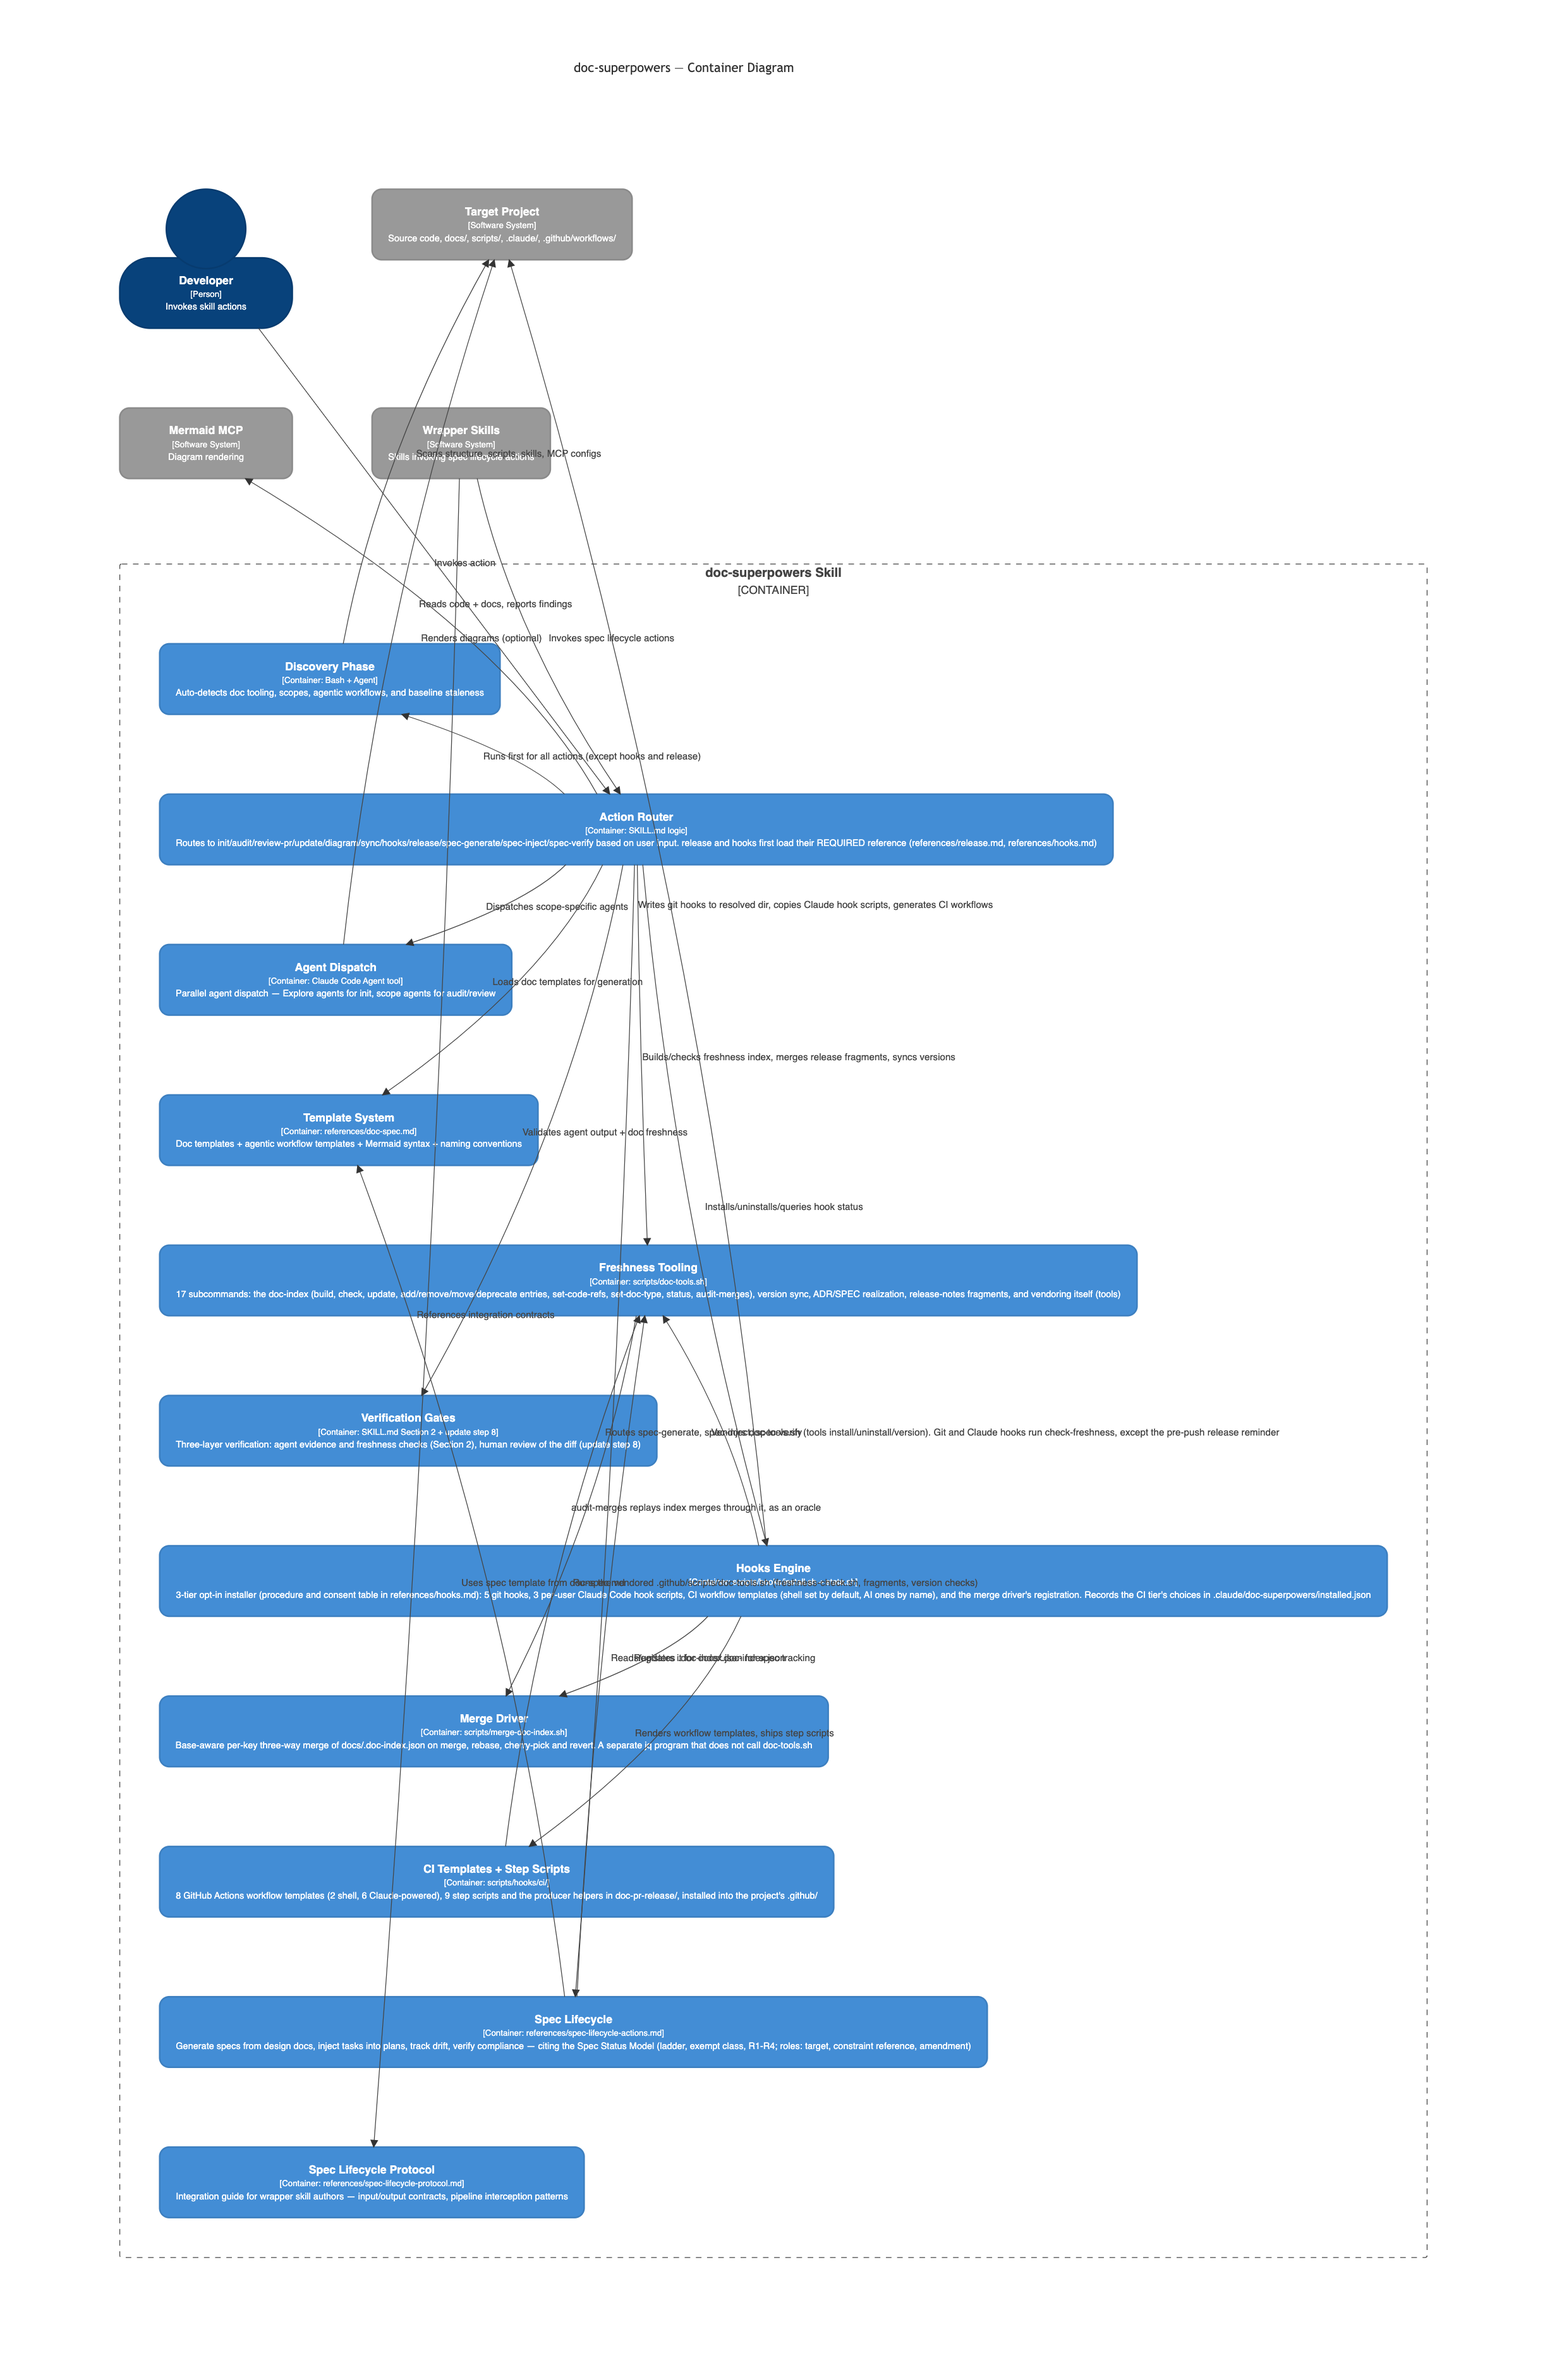
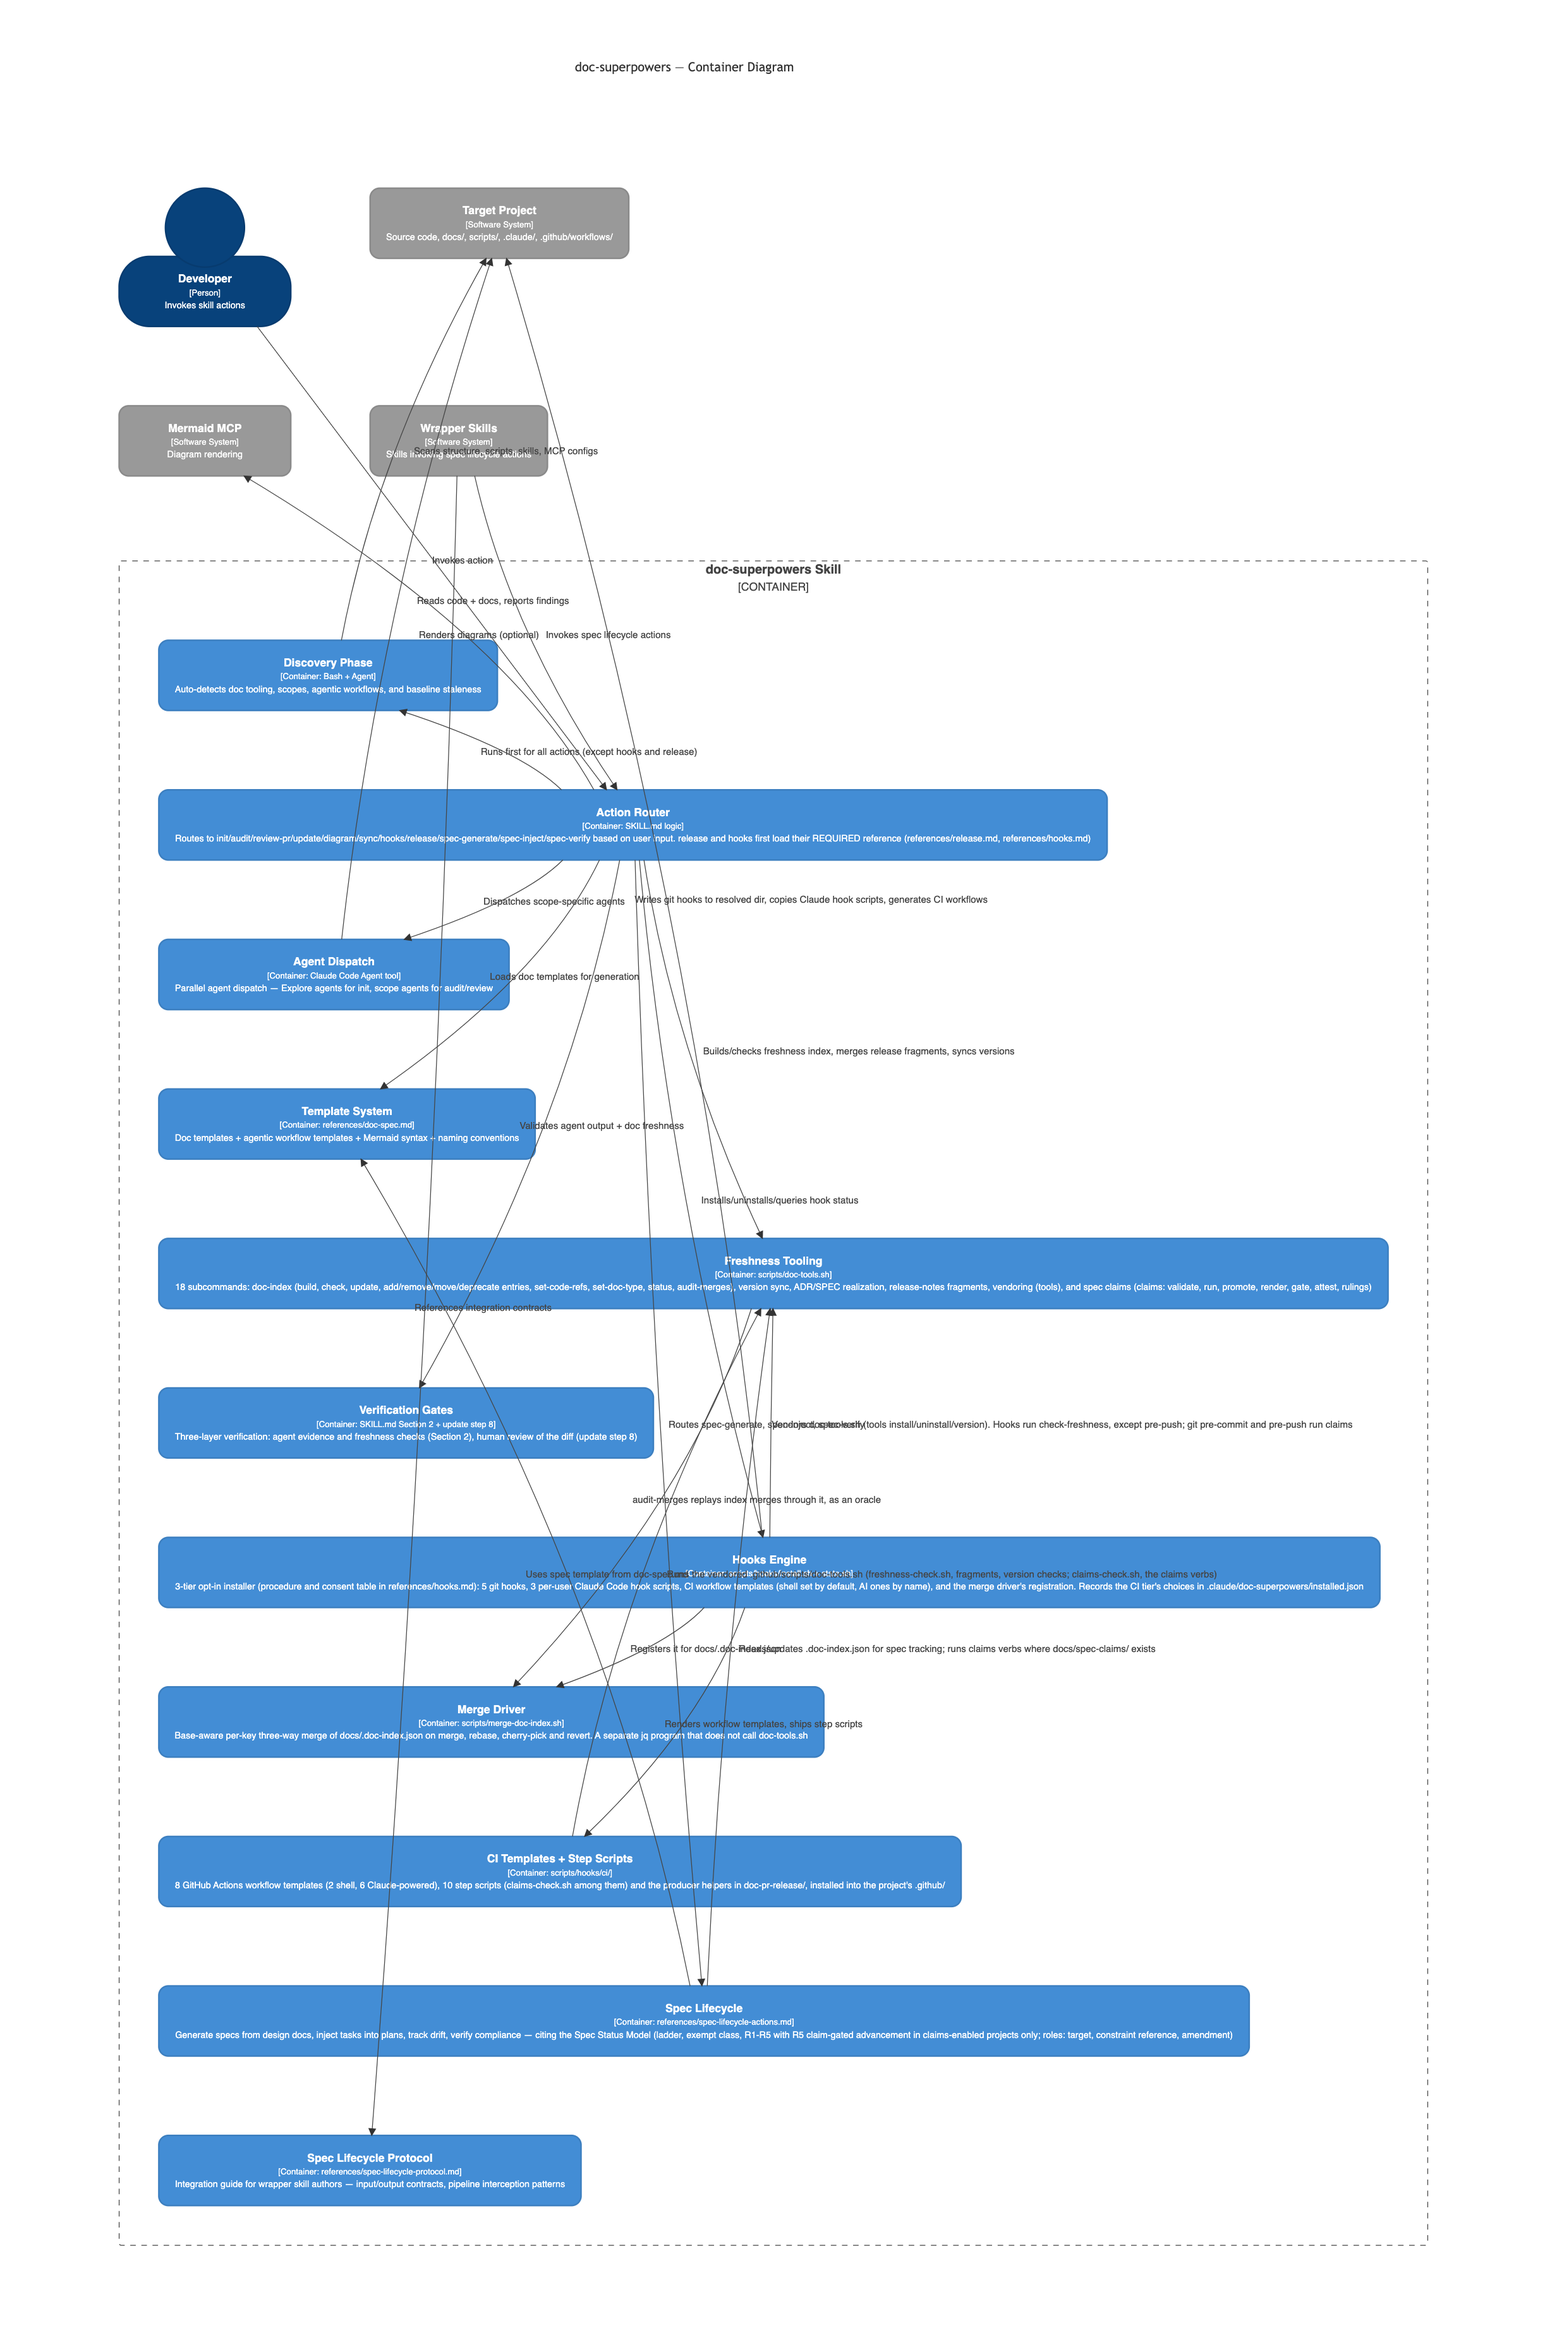
docs(architecture): re-render the C4 container diagram for 3.2.0
The container diagram's Mermaid source now matches the code: Freshness
Tooling is 18 subcommands and names the claims verb group; CI Templates
ships 10 step scripts (claims-check.sh among them); the Spec Status Model
cites R1-R5 (R5 claim-gated advancement, claims-enabled projects only);
the hooks relation says the git pre-commit and pre-push hooks also run
claims; the CI and spec lifecycle relations to doc-tools.sh name the
claims verbs.

Re-rendered c4-container.png with mmdc 11.6.0 and headless system Chrome
(c4.wrap: false, width 1248, scale 2), the settings v3.1.0 recorded. The
new labels were kept short enough that none crosses the Skill boundary
and the diagram keeps its scale (2464x3704, was 2464x3724). The edge
labels overlap each other as they did in the previous render.
c4-context.png is unchanged: its source has not changed since its last
render, and no label in it is stale.

diff --git a/docs/architecture/system-overview.md b/docs/architecture/system-overview.md
@@ -63,12 +63,12 @@ C4Container
     Container(router, "Action Router", "SKILL.md logic", "Routes to init/audit/review-pr/update/diagram/sync/hooks/release/spec-generate/spec-inject/spec-verify based on user input. release and hooks first load their REQUIRED reference (references/release.md, references/hooks.md)")
     Container(agents, "Agent Dispatch", "Claude Code Agent tool", "Parallel agent dispatch — Explore agents for init, scope agents for audit/review")
     Container(templates, "Template System", "references/doc-spec.md", "Doc templates + agentic workflow templates + Mermaid syntax + naming conventions")
-    Container(doctools, "Freshness Tooling", "scripts/doc-tools.sh", "17 subcommands: the doc-index (build, check, update, add/remove/move/deprecate entries, set-code-refs, set-doc-type, status, audit-merges), version sync, ADR/SPEC realization, release-notes fragments, and vendoring itself (tools)")
+    Container(doctools, "Freshness Tooling", "scripts/doc-tools.sh", "18 subcommands: doc-index (build, check, update, add/remove/move/deprecate entries, set-code-refs, set-doc-type, status, audit-merges), version sync, ADR/SPEC realization, release-notes fragments, vendoring (tools), and spec claims (claims: validate, run, promote, render, gate, attest, rulings)")
     Container(verification, "Verification Gates", "SKILL.md Section 2 + update step 8", "Three-layer verification: agent evidence and freshness checks (Section 2), human review of the diff (update step 8)")
     Container(hooks, "Hooks Engine", "scripts/hooks/install.sh + state.sh", "3-tier opt-in installer (procedure and consent table in references/hooks.md): 5 git hooks, 3 per-user Claude Code hook scripts, CI workflow templates (shell set by default, AI ones by name), and the merge driver's registration. Records the CI tier's choices in .claude/doc-superpowers/installed.json")
     Container(mergedriver, "Merge Driver", "scripts/merge-doc-index.sh", "Base-aware per-key three-way merge of docs/.doc-index.json on merge, rebase, cherry-pick and revert. A separate jq program that does not call doc-tools.sh")
-    Container(citemplates, "CI Templates + Step Scripts", "scripts/hooks/ci/", "8 GitHub Actions workflow templates (2 shell, 6 Claude-powered), 9 step scripts and the producer helpers in doc-pr-release/, installed into the project's .github/")
-    Container(speclifecycle, "Spec Lifecycle", "references/spec-lifecycle-actions.md", "Generate specs from design docs, inject tasks into plans, track drift, verify compliance — citing the Spec Status Model (ladder, exempt class, R1-R4; roles: target, constraint reference, amendment)")
+    Container(citemplates, "CI Templates + Step Scripts", "scripts/hooks/ci/", "8 GitHub Actions workflow templates (2 shell, 6 Claude-powered), 10 step scripts (claims-check.sh among them) and the producer helpers in doc-pr-release/, installed into the project's .github/")
+    Container(speclifecycle, "Spec Lifecycle", "references/spec-lifecycle-actions.md", "Generate specs from design docs, inject tasks into plans, track drift, verify compliance — citing the Spec Status Model (ladder, exempt class, R1-R5 with R5 claim-gated advancement in claims-enabled projects only; roles: target, constraint reference, amendment)")
     Container(specprotocol, "Spec Lifecycle Protocol", "references/spec-lifecycle-protocol.md", "Integration guide for wrapper skill authors — input/output contracts, pipeline interception patterns")
   }
 
@@ -87,13 +87,13 @@ C4Container
   Rel(router, mermaid, "Renders diagrams (optional)")
   Rel(router, hooks, "Installs/uninstalls/queries hook status")
   Rel(hooks, project, "Writes git hooks to resolved dir, copies Claude hook scripts, generates CI workflows")
-  Rel(hooks, doctools, "Vendors doc-tools.sh (tools install/uninstall/version). Git and Claude hooks run check-freshness, except the pre-push release reminder")
+  Rel(hooks, doctools, "Vendors doc-tools.sh (tools install/uninstall/version). Hooks run check-freshness, except pre-push; git pre-commit and pre-push run claims")
   Rel(hooks, mergedriver, "Registers it for docs/.doc-index.json")
   Rel(doctools, mergedriver, "audit-merges replays index merges through it, as an oracle")
   Rel(hooks, citemplates, "Renders workflow templates, ships step scripts")
-  Rel(citemplates, doctools, "Runs the vendored .github/scripts/doc-tools.sh (freshness-check.sh, fragments, version checks)")
+  Rel(citemplates, doctools, "Runs the vendored .github/scripts/doc-tools.sh (freshness-check.sh, fragments, version checks; claims-check.sh, the claims verbs)")
   Rel(router, speclifecycle, "Routes spec-generate, spec-inject, spec-verify")
-  Rel(speclifecycle, doctools, "Reads/updates .doc-index.json for spec tracking")
+  Rel(speclifecycle, doctools, "Reads/updates .doc-index.json for spec tracking; runs claims verbs where docs/spec-claims/ exists")
   Rel(speclifecycle, templates, "Uses spec template from doc-spec.md")
   Rel(wrapper, specprotocol, "References integration contracts")
   Rel(wrapper, router, "Invokes spec lifecycle actions")
